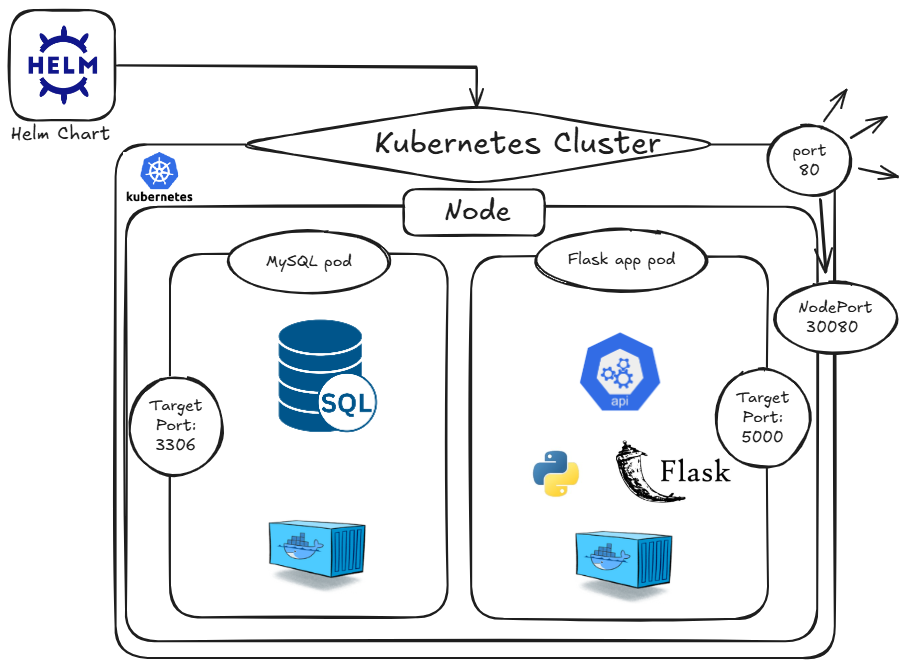
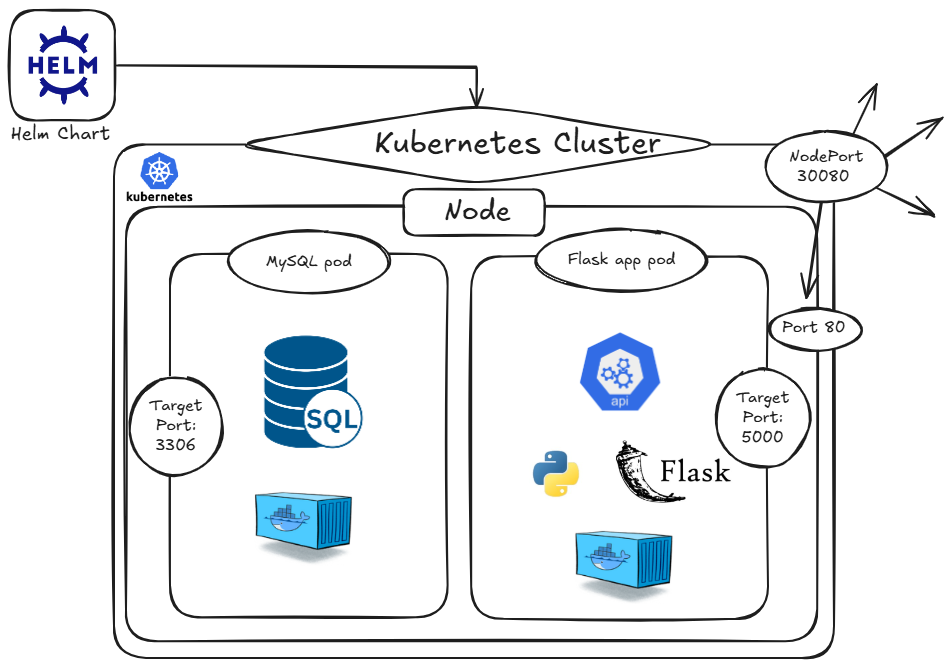
Final Update

diff --git a/README.md b/README.md
@@ -107,6 +107,11 @@ This project implements a complete CI/CD pipeline using Jenkins. The Jenkins pip
   <img src="images/k8s_flow.png" alt="kubernetes flow map" width="900" height="650">
 </p>
 
+
+Traffic flow:
+External Client → NodeIP:30080 → NodePort Service (port:80) → Flask Pod (targetPort:5000)
+
+
 - Deploy Helm Chart stage:
    * setting KUBECONFIG as an environment variable that would tells kubectl where is the configuration file of kubernetes is.
    * If the release rest-app-server already exists → upgrade it.
